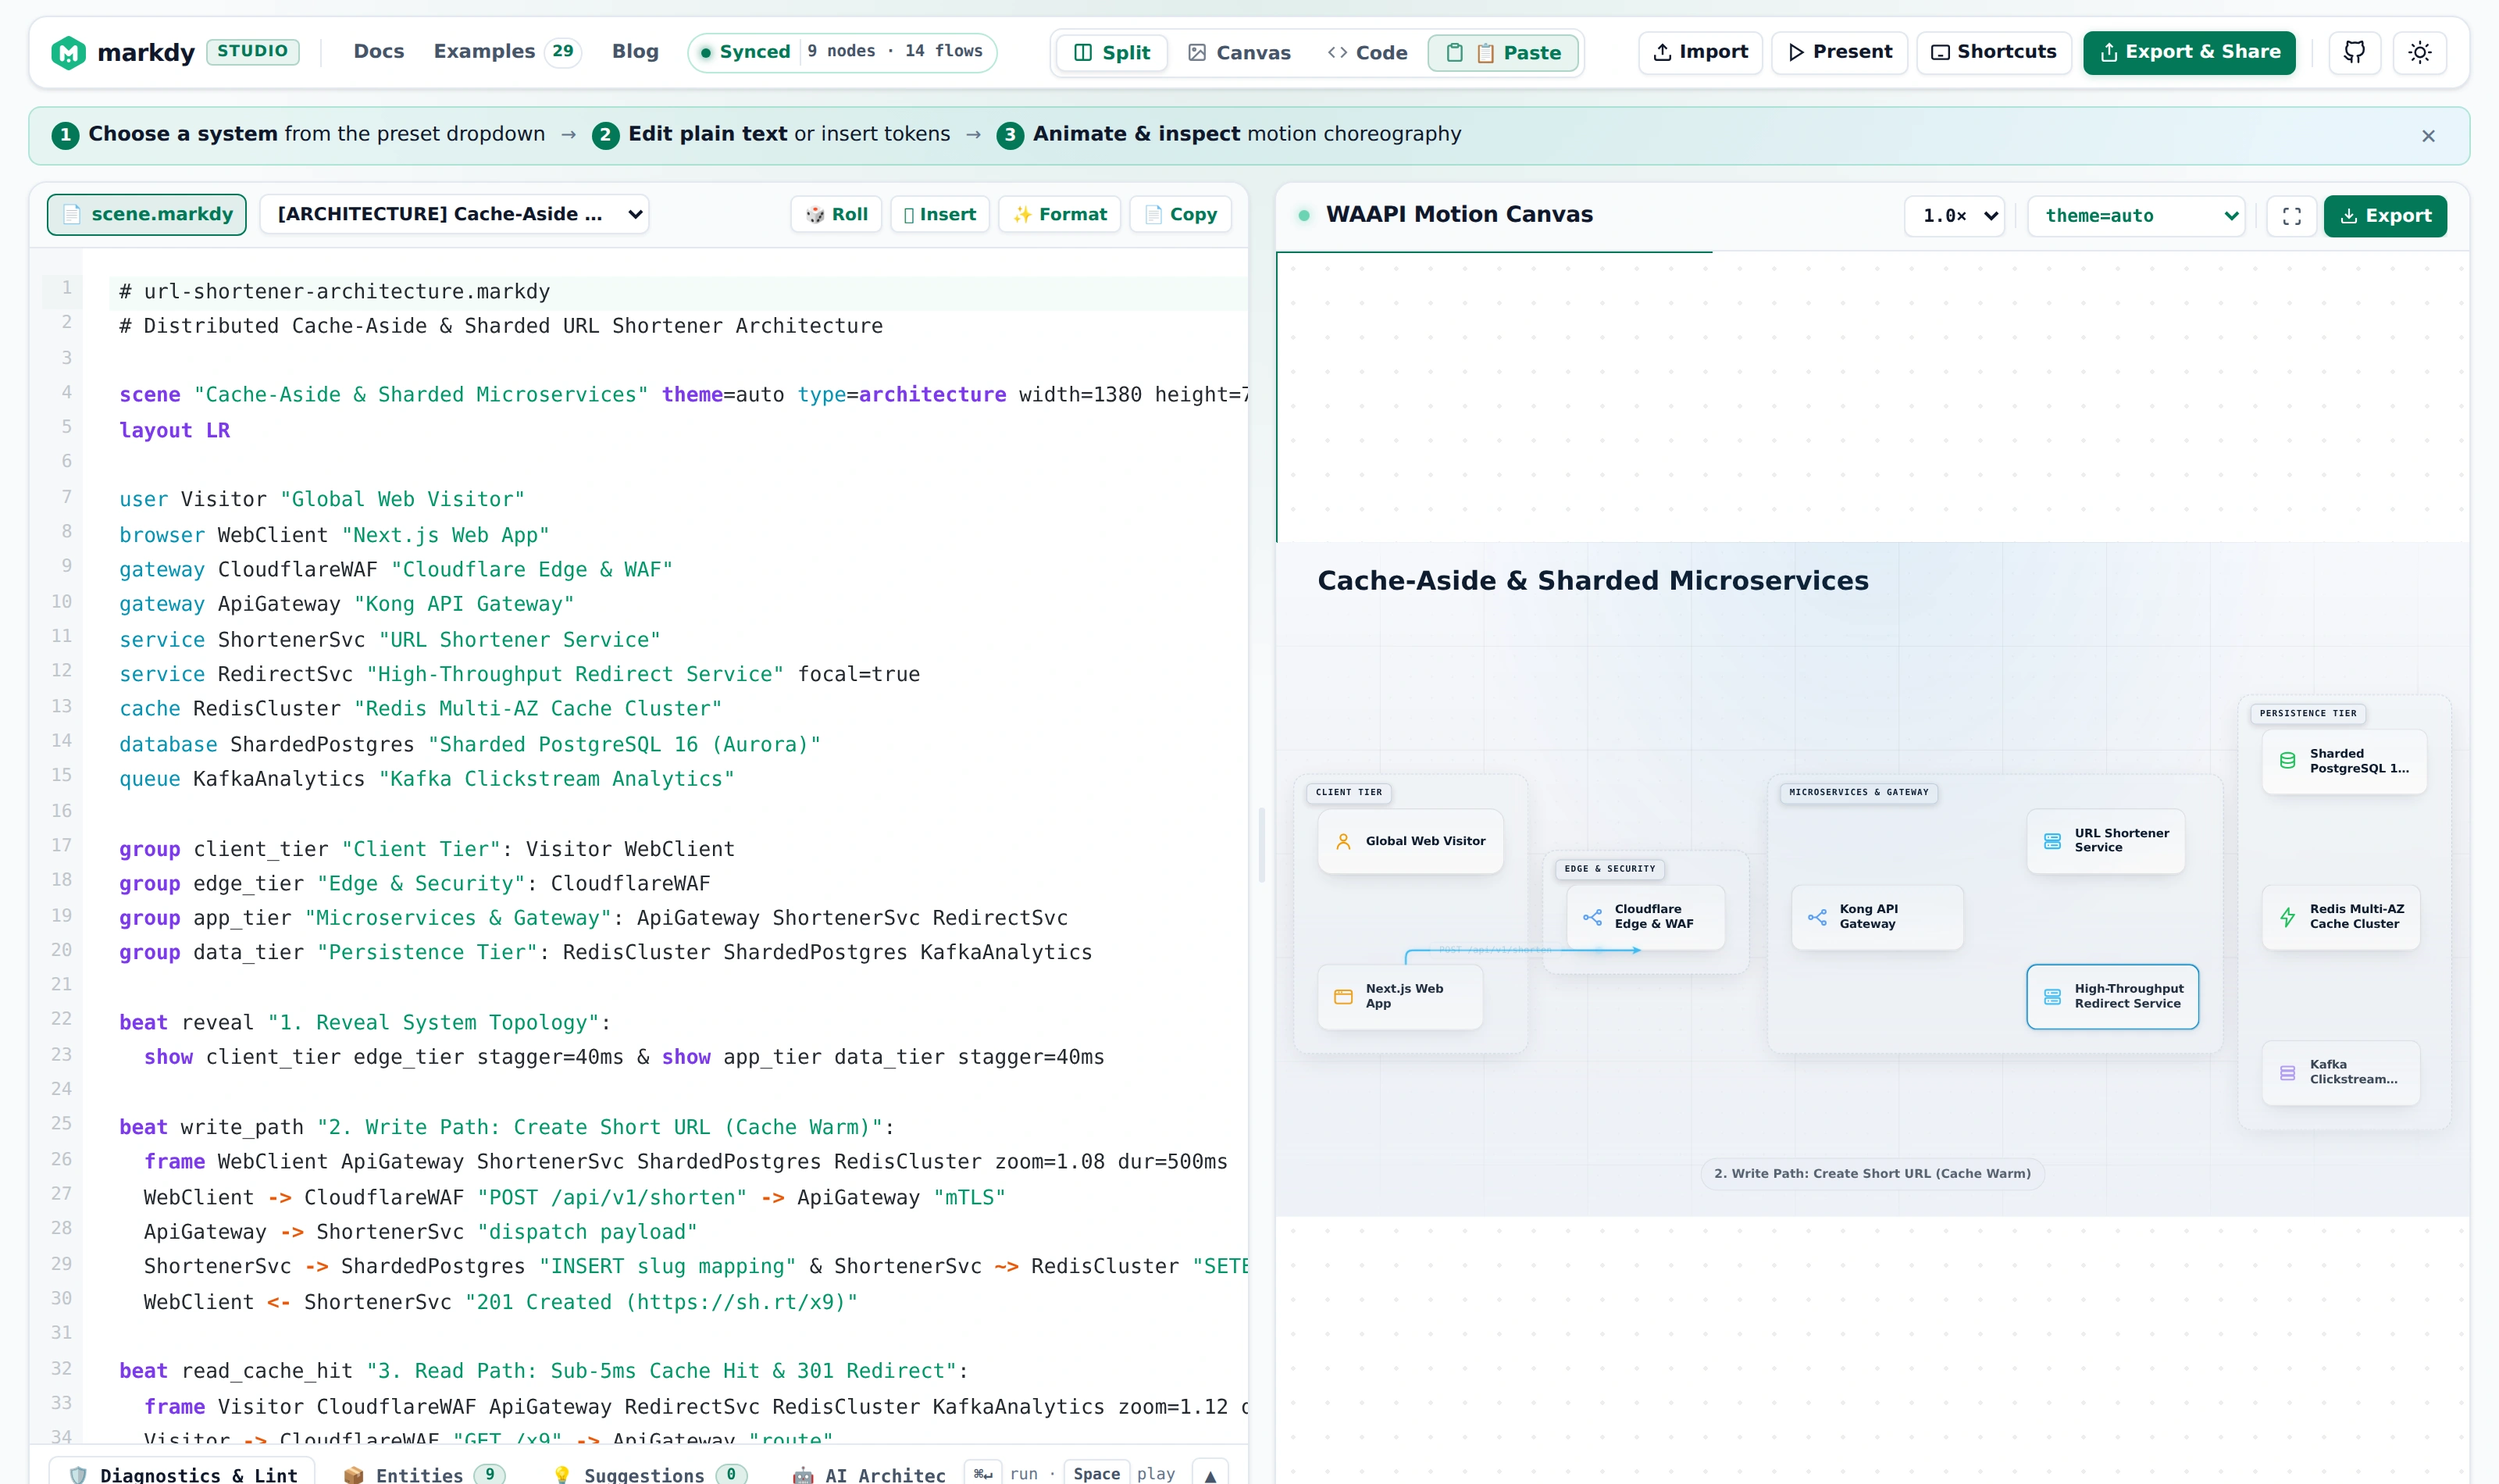
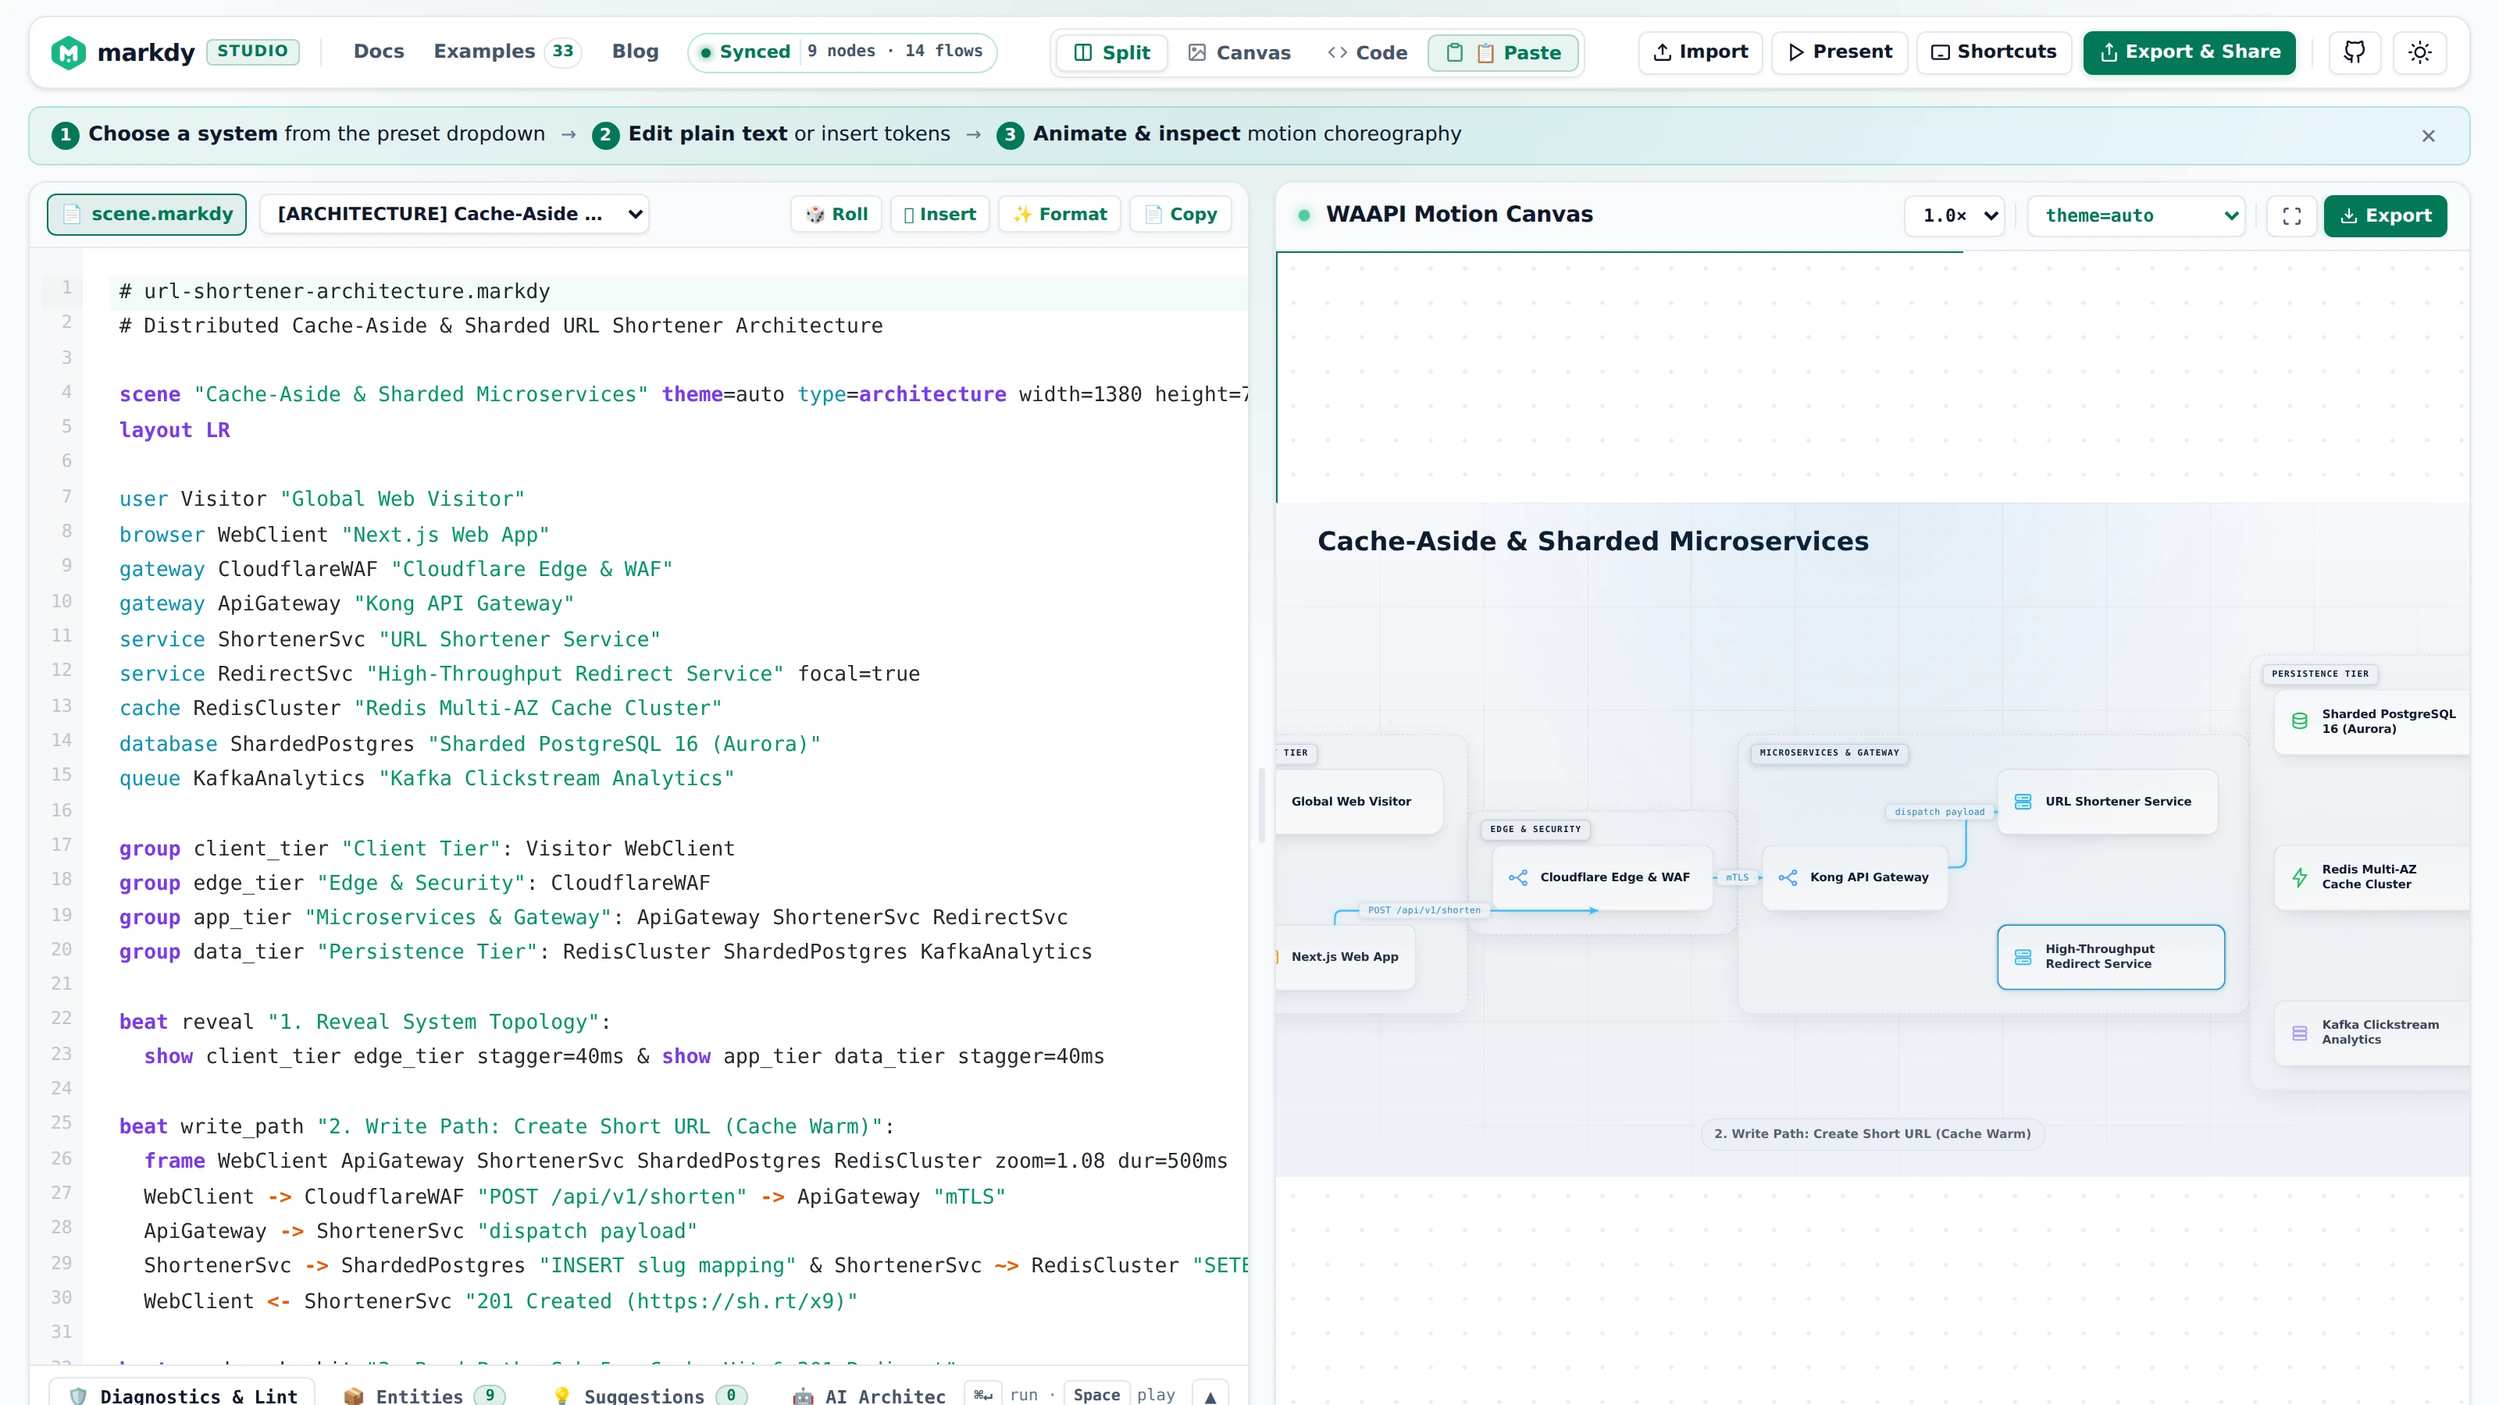
fix(website,core,evidence): synchronize 33 blueprints catalog, add grafana symbol & refresh live UI screenshots
- Add native zero-CDN grafana vector symbol to core observability registry (0 verifier warnings)
- Synchronize blueprint counters across studio navbar, gallery hero, and docs (29 -> 33)
- Re-capture live production UI evidence cards (01, 02, 03) with Chrome headless
- All 330/330 tests pass cleanly across monorepo

diff --git a/packages/core/src/symbols.ts b/packages/core/src/symbols.ts
@@ -241,6 +241,13 @@ export const VECTOR_SYMBOLS: Record<string, VectorSymbol> = {
     svgPaths: `<path fill="currentColor" d="M12 2a10 10 0 1 0 10 10A10 10 0 0 0 12 2zm-1 5h2v6h-2zm0 8h2v2h-2z"/>`,
     brandColor: "#60D0E4",
   },
+  grafana: {
+    name: "Grafana",
+    category: "observability",
+    viewBox: "0 0 24 24",
+    svgPaths: `<path fill="currentColor" d="M12 2C6.48 2 2 6.48 2 12s4.48 10 10 10 10-4.48 10-10S17.52 2 12 2zm1 14.93c-2.82-.41-5-2.85-5-5.93 0-.82.16-1.6.46-2.31l3.07 3.07c-.12.4-.19.82-.19 1.25 0 1.66 1.34 3 3 3 .43 0 .85-.07 1.25-.19l-2.59-2.59zM16.5 12c0 1.93-1.12 3.6-2.76 4.38l-4.12-4.12A4.47 4.47 0 0 1 12 7.5c2.48 0 4.5 2.02 4.5 4.5z"/>`,
+    brandColor: "#F46800",
+  },
   pagerduty: {
     name: "PagerDuty",
     category: "observability",

diff --git a/README.md b/README.md
@@ -13,7 +13,7 @@
   <a href="https://markdy.com/playground/"><b>⚡ Live Studio</b></a> &nbsp;•&nbsp;
   <a href="https://marketplace.visualstudio.com/items?itemName=hoangyell.markdy-vscode"><b>🔌 VS Code Extension</b></a> &nbsp;•&nbsp;
   <a href="https://markdy.com/docs/"><b>📖 Documentation</b></a> &nbsp;•&nbsp;
-  <a href="https://markdy.com/examples/"><b>🌟 29 Blueprints</b></a> &nbsp;•&nbsp;
+  <a href="https://markdy.com/examples/"><b>🌟 33 Blueprints</b></a> &nbsp;•&nbsp;
   <a href="https://markdy.com/agent/"><b>🤖 AI &amp; Agent Guide</b></a>
 </p>
 
@@ -520,7 +520,7 @@ agy mcp add markdy -- npx -y @markdy/mcp-server
 - 🔄 `transpile_to_markdy`: Convert Mermaid, Docker Compose, Kubernetes, Terraform, or Draw.io into valid MarkdyScript.
 - 📚 `markdy://spec/agent-reference`: Full AST grammar reference and token catalog.
 - 🏛 `markdy://governance/rules`: Architecture rules (Well-Architected, cycle bounds, layer separation).
-- 📦 `markdy://templates/catalog`: 29 production-grade architecture blueprints.
+- 📦 `markdy://templates/catalog`: 33 production-grade architecture blueprints.
 
 👉 *[Read the Full AI Agent Reference Guide (`AGENT.md`) ↗](https://markdy.com/agent/)*
 </details>

diff --git a/docs/wiki/Home.md b/docs/wiki/Home.md
@@ -22,7 +22,7 @@
 
 ## 🚀 Interactive Links
 
-- ⚡ **[Live Studio Playground](https://markdy.com/playground/)** — Experiment with 29 interactive architecture blueprints in your browser.
+- ⚡ **[Live Studio Playground](https://markdy.com/playground/)** — Experiment with 33 interactive architecture blueprints in your browser.
 - 📖 **[Official Documentation](https://markdy.com/docs/)** — Full grammar specification, AST schema, and API guides.
 - 🌟 **[17+ Layout Examples Gallery](https://markdy.com/examples/)** — Live gallery of systems, roadmaps, and security perimeters.
 - 🤖 **[AI LLMs Context (llms-full.txt)](https://markdy.com/llms-full.txt)** — Canonical context file for AI assistants.

diff --git a/docs/marketing/ARTICLE_ANIMATED_ARCHITECTURE_DIAGRAMS.md b/docs/marketing/ARTICLE_ANIMATED_ARCHITECTURE_DIAGRAMS.md
@@ -135,7 +135,7 @@ code --install-extension hoangyell.markdy-vscode
 Create a `system.markdy` file, press `Cmd+K V`, and watch your architecture come alive.
 
 ### 2. In Your Browser:
-Visit the interactive [Markdy Web Studio](https://markdy.com/playground/) to experiment with 29 pre-built architecture blueprints (Kafka, Kubernetes, OAuth PKCE, Medallion Lakehouse, Microservices).
+Visit the interactive [Markdy Web Studio](https://markdy.com/playground/) to experiment with 33 pre-built architecture blueprints (Kafka, Kubernetes, OAuth PKCE, Medallion Lakehouse, Microservices).
 
 ### 3. In Your Terminal / CI/CD:
 Render diagrams into standalone interactive HTML or SVG vector bundles:

diff --git a/packages/vscode/README.md b/packages/vscode/README.md
@@ -22,9 +22,9 @@
 
 <p align="center">
   <a href="https://markdy.com/playground/"><b>⚡ Web Studio</b></a> &nbsp;•&nbsp;
-  <a href="https://markdy.com/docs/"><b>📖 Full Docs</b></a> &nbsp;•&nbsp;
-  <a href="https://markdy.com/examples/"><b>🌟 29 Blueprints</b></a> &nbsp;•&nbsp;
-  <a href="https://github.com/HoangYell/markdy-com"><b>🐙 GitHub Repo</b></a>
+  <a href="https://markdy.com/docs/"><b>📖 Documentation</b></a> &nbsp;•&nbsp;
+  <a href="https://markdy.com/examples/"><b>🌟 33 Blueprints</b></a> &nbsp;•&nbsp;
+  <a href="https://markdy.com/agent/"><b>🤖 AI &amp; Agent Guide</b></a>
 </p>
 
 <p align="center">
